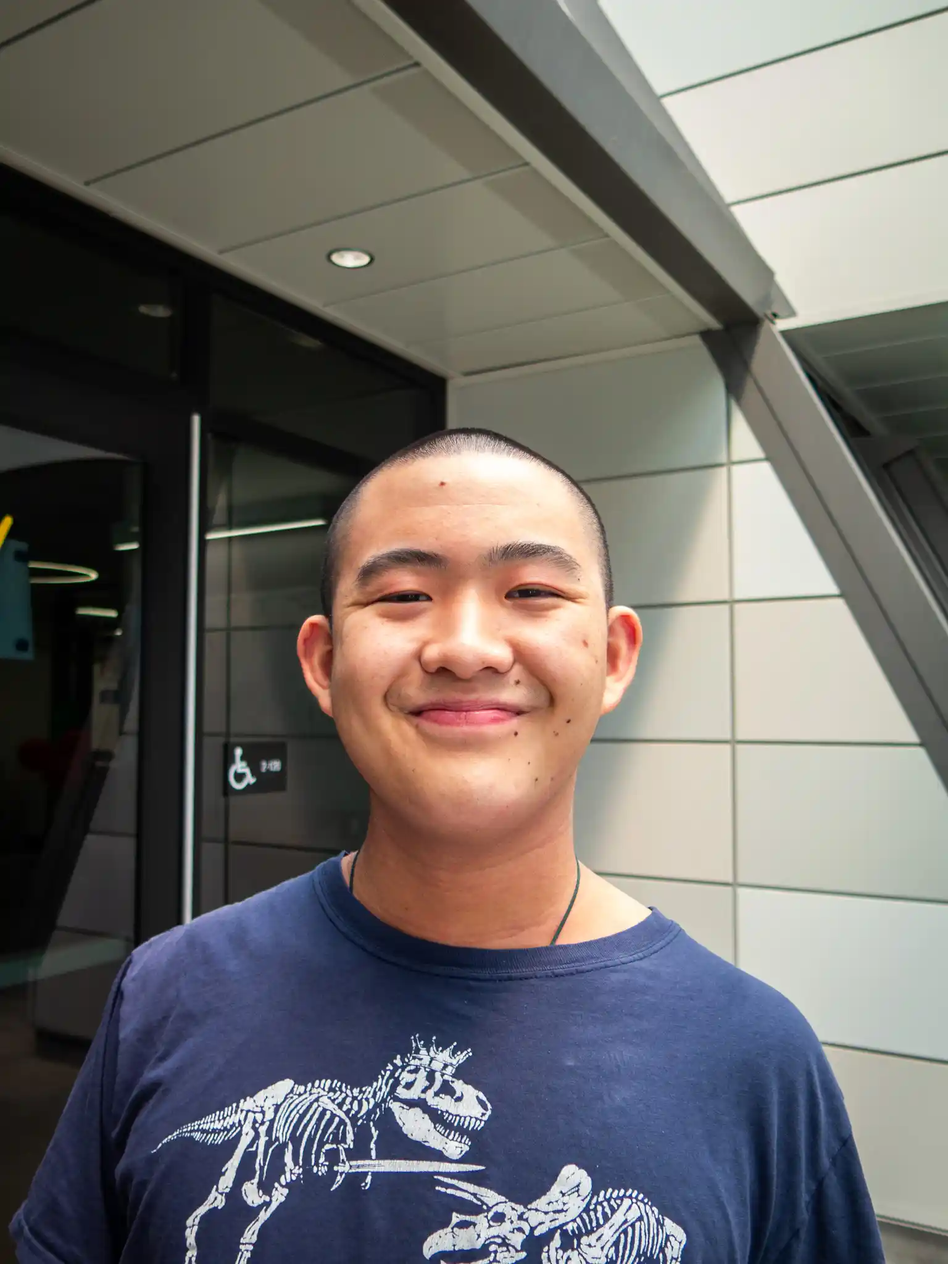
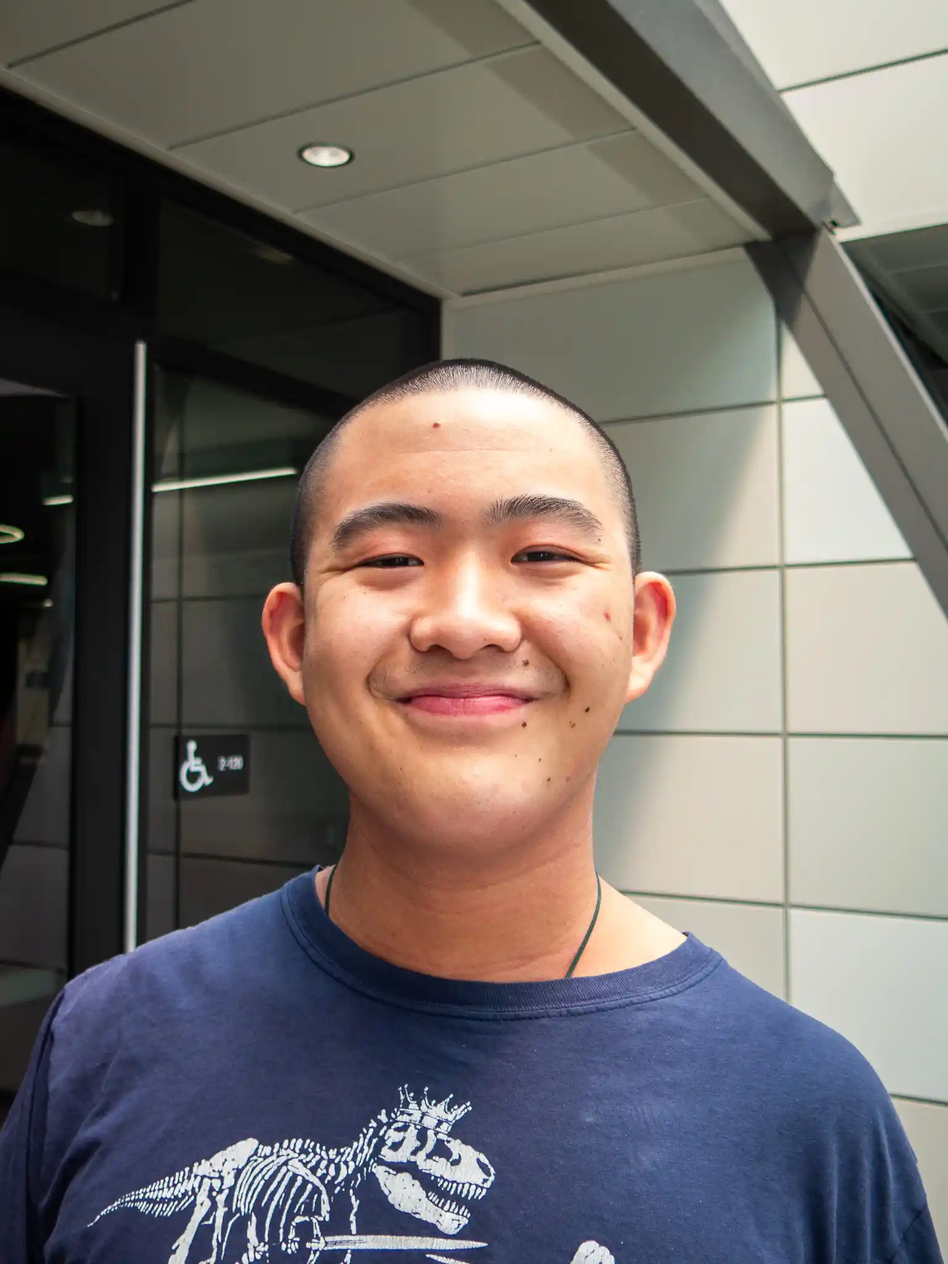
Add headshots, bios, survey data, and new favorites
- Wire 14 new headshots (Cash T, Destiny P, Elijah B, Farishta I, Hunter W, Jackson R, Josh S, Katally L, Kiyomi P, Logan W, Nathan S, Pearce W, Richard C, Seth P) + replace 11
- Fill survey data / bios for Kai Arellano, Chris Cowdell, Marie-France Demuro, Brent Limbo, Jackson Rowland, Arnav Sheth
- Update Cash Thomson to fully committed CSU Long Beach — Physical Therapy
- Add 13 new favorites across pages 7–8 (KaivJesiah, WalkEmDown, ItsSuperman, Bonitos, PantsOnFire, LiveMas, Dormir, Bruddas, Hiking, Victory, GojoNEm, Raverside, AryanLTribute)

diff --git a/index.html b/index.html
@@ -1228,17 +1228,17 @@ const people = [
   {img:'',name:'Nyala Ali',role:'_____ — _____',ig:'@_____',email:'',birthday:'',quote:'Dropped the wave runners now we run the wave',quoteBy:'goat',bio:'Nyala is committed to _____ for _____, planning to _____. Their favorite memory has been _____ and they will miss _____ the most. They are most excited for _____ in the next 10 years.'},
   {img:'',name:'Janae Alsabti',role:'_____ — _____',ig:'@_____',email:'',birthday:'',quote:'Dropped the wave runners now we run the wave',quoteBy:'goat',bio:'Janae is committed to _____ for _____, planning to _____. Their favorite memory has been _____ and they will miss _____ the most. They are most excited for _____ in the next 10 years.'},
   {img:'images/Headshots/Omar A.webp',name:'Omar Anees',role:'_____ — _____',ig:'@_____',email:'',birthday:'',quote:'Dropped the wave runners now we run the wave',quoteBy:'goat',bio:'Omar is committed to _____ for _____, planning to _____. Their favorite memory has been _____ and they will miss _____ the most. They are most excited for _____ in the next 10 years.'},
-  {img:'images/Headshots/Kai A.webp',name:'Kai Arellano',role:'_____ — _____',ig:'@_____',email:'',birthday:'',quote:'Dropped the wave runners now we run the wave',quoteBy:'goat',bio:'Kai is committed to _____ for _____, planning to _____. Their favorite memory has been _____ and they will miss _____ the most. They are most excited for _____ in the next 10 years.'},
+  {img:'images/Headshots/Kai A.webp',name:'Kai Arellano',role:'IVC — Pre-Veterinary',ig:'@kai.arellano',email:'kaia4181@mytusd.org',birthday:'June 20, 2008',quote:'Obsession beats talent every time.',quoteBy:'Adam Sandler',bio:'Kai is headed to IVC, hoping to one day work as a veterinarian and open his own clinic. His favorite memory was the Los Alamos trip with the boys. He will miss hanging out and having fun in class with his friends the most.'},
   {img:'images/Headshots/Zach A.webp',name:'Zach Avalos',role:'_____ — _____',ig:'@_____',email:'',birthday:'',quote:'Dropped the wave runners now we run the wave',quoteBy:'goat',bio:'Zach is committed to _____ for _____, planning to _____. Their favorite memory has been _____ and they will miss _____ the most. They are most excited for _____ in the next 10 years.'},
   {img:'',name:'Paloma Ayala',role:'_____ — _____',ig:'@_____',email:'',birthday:'',quote:'Dropped the wave runners now we run the wave',quoteBy:'goat',bio:'Paloma is committed to _____ for _____, planning to _____. Their favorite memory has been _____ and they will miss _____ the most. They are most excited for _____ in the next 10 years.'},
-  {img:'',name:'Elijah Bagnol',role:'_____ — _____',ig:'@_____',email:'',birthday:'',quote:'Dropped the wave runners now we run the wave',quoteBy:'goat',bio:'Elijah is committed to _____ for _____, planning to _____. Their favorite memory has been _____ and they will miss _____ the most. They are most excited for _____ in the next 10 years.'},
+  {img:'images/Headshots/Elijah B.webp',name:'Elijah Bagnol',role:'_____ — _____',ig:'@_____',email:'',birthday:'',quote:'Dropped the wave runners now we run the wave',quoteBy:'goat',bio:'Elijah is committed to _____ for _____, planning to _____. Their favorite memory has been _____ and they will miss _____ the most. They are most excited for _____ in the next 10 years.'},
   {img:'images/Headshots/Jaedon B.webp',name:'Jaedon Baluyut',role:'_____ — _____',ig:'@_____',email:'',birthday:'',quote:'Dropped the wave runners now we run the wave',quoteBy:'goat',bio:'Jaedon is committed to _____ for _____, planning to _____. Their favorite memory has been _____ and they will miss _____ the most. They are most excited for _____ in the next 10 years.'},
   {img:'images/Headshots/Andrew C.webp',name:'Andrew Camacho',role:'_____ — _____',ig:'@_____',email:'',birthday:'',quote:'Dropped the wave runners now we run the wave',quoteBy:'goat',bio:'Andrew is committed to _____ for _____, planning to _____. Their favorite memory has been _____ and they will miss _____ the most. They are most excited for _____ in the next 10 years.'},
   {img:'images/Headshots/Brandon Ca.webp',name:'Brandon Campos',role:'IVC — College',ig:'@brandoncamp.os',email:'brandonac4292@gmail.com',birthday:'September 16, 2008',quote:"Don't be a judger bro.",quoteBy:'Ken Carson',bio:"Brandon is committed to IVC, planning to transfer. His favorite memory was Kai vs. Jesiah. He will miss his friends the most and is most excited for traveling and exploring."},
   {img:'images/Headshots/Santiago C.webp',name:'Santiago Cardenas-Huerta',role:'IVC',ig:'@Santiago_cahu',email:'Santiagoc4183@mytusd.org',birthday:'April 26, 2008',quote:'God is absolutely above all, trust in Him and you\'ll end up where He wants you to be.',quoteBy:'',bio:'Santiago is committed to IVC, planning to get married, start a family, and achieve financial stability. His favorite memory was with the boys. He will miss the bonds and friendships he has built and is most excited to figure things out.'},
   {img:'images/Headshots/Carson C.webp',name:'Carson Carter',role:'_____ — _____',ig:'@_____',email:'',birthday:'',quote:'Dropped the wave runners now we run the wave',quoteBy:'goat',bio:'Carson is committed to _____ for _____, planning to _____. Their favorite memory has been _____ and they will miss _____ the most. They are most excited for _____ in the next 10 years.'},
   {img:'',name:'Rebecca Casillas',role:'_____ — _____',ig:'@_____',email:'',birthday:'',quote:'Dropped the wave runners now we run the wave',quoteBy:'goat',bio:'Rebecca is committed to _____ for _____, planning to _____. Their favorite memory has been _____ and they will miss _____ the most. They are most excited for _____ in the next 10 years.'},
-  {img:'',name:'Richard Casillas',role:'_____ — _____',ig:'@_____',email:'',birthday:'',quote:'Dropped the wave runners now we run the wave',quoteBy:'goat',bio:'Richard is committed to _____ for _____, planning to _____. Their favorite memory has been _____ and they will miss _____ the most. They are most excited for _____ in the next 10 years.'},
+  {img:'images/Headshots/Richard C.webp',name:'Richard Casillas',role:'_____ — _____',ig:'@_____',email:'',birthday:'',quote:'Dropped the wave runners now we run the wave',quoteBy:'goat',bio:'Richard is committed to _____ for _____, planning to _____. Their favorite memory has been _____ and they will miss _____ the most. They are most excited for _____ in the next 10 years.'},
   {img:'images/Headshots/Jayden C.webp',name:'Jayden Cerda',role:'IVC — Photography',ig:'@Vibewth.Jayden',email:'Cerdajay792@gmail.com',birthday:'July 27, 2008',quote:'You will never truly know the value of a moment until it becomes a memory',quoteBy:'',bio:'Jayden is committed to IVC, planning to become a photographer like Larry Chen — or a firefighter. His favorite memory was ESC. He will miss seeing his people every day and is most excited to stop waking up early for school.'},
   {img:'',name:'Baran Cerrahoglu',role:'_____ — _____',ig:'@_____',email:'',birthday:'',quote:'Dropped the wave runners now we run the wave',quoteBy:'goat',bio:'Baran is committed to _____ for _____, planning to _____. Their favorite memory has been _____ and they will miss _____ the most. They are most excited for _____ in the next 10 years.'},
   {img:'images/Headshots/Brandon Ch.webp',name:'Brandon Chang',role:'_____ — _____',ig:'@_____',email:'',birthday:'',quote:'Dropped the wave runners now we run the wave',quoteBy:'goat',bio:'Brandon is committed to _____ for _____, planning to _____. Their favorite memory has been _____ and they will miss _____ the most. They are most excited for _____ in the next 10 years.'},
@@ -1247,8 +1247,8 @@ const people = [
   {img:'',name:'Ellie Chung',role:'_____ — _____',ig:'@_____',email:'',birthday:'',quote:'Dropped the wave runners now we run the wave',quoteBy:'goat',bio:'Ellie is committed to _____ for _____, planning to _____. Their favorite memory has been _____ and they will miss _____ the most. They are most excited for _____ in the next 10 years.'},
   {img:'images/Headshots/Matt C.webp',name:'Matt Ciecek',role:'_____ — _____',ig:'@_____',email:'',birthday:'',quote:'Dropped the wave runners now we run the wave',quoteBy:'goat',bio:'Matt is committed to _____ for _____, planning to _____. Their favorite memory has been _____ and they will miss _____ the most. They are most excited for _____ in the next 10 years.'},
   {img:'',name:'Amani Clark',role:'College — University of Texas at Dallas',ig:'@dac_12.4',email:'amanic4060@mytusd.org',birthday:'October 24, 2007',quote:'Keep trying and if you can\'t come up with a solution, game until one comes to you.',quoteBy:'',bio:'Amani is headed to the University of Texas at Dallas, planning to go into business and land a solid job. His favorite memory was karaoke at lunch. He will miss his friends the most and is most excited to make brisket and kick off a new chapter in college.'},
-  {img:'images/Headshots/Christopher C.webp',name:'Chris Cowdell',role:'_____ — _____',ig:'@_____',email:'',birthday:'',quote:'Dropped the wave runners now we run the wave',quoteBy:'goat',bio:'Chris is committed to _____ for _____, planning to _____. Their favorite memory has been _____ and they will miss _____ the most. They are most excited for _____ in the next 10 years.'},
-  {img:'',name:'Marie-France Demuro',role:'_____ — _____',ig:'@_____',email:'',birthday:'',quote:'Dropped the wave runners now we run the wave',quoteBy:'goat',bio:'Marie-France is committed to _____ for _____, planning to _____. Their favorite memory has been _____ and they will miss _____ the most. They are most excited for _____ in the next 10 years.'},
+  {img:'images/Headshots/Christopher C.webp',name:'Chris Cowdell',role:'LDS Mission → IVC / UCI — Storytelling',ig:'@chrisandwich_crc',email:'christopherc3090@mytusd.org',birthday:'April 18, 2007',quote:'Being weak is nothing to be ashamed of. Staying weak is.',quoteBy:'',bio:'Chris is departing on a two-year mission for the Church of Jesus Christ of Latter-Day Saints after graduation, then plans to attend college — possibly on a track and field scholarship, or IVC then UCI, pursuing the art of storytelling. His favorite memory was educating students in the weight room through the Fitness Together club. He will miss the teachers and friends he got to know and is most excited to finally tell the stories he has been writing for over eight years.'},
+  {img:'',name:'Marie-France Demuro',role:'Community College',ig:'@deffinetly_not_marie',email:'marie-franced2621@mytusd.org',birthday:'April 14, 2008',quote:'From you, 4 years ago.',quoteBy:'',bio:'Marie-France is heading to community college, unsure of exactly what or where, but certain she will be happy doing what feels right. Her favorite memory was realizing she actually has things to contribute. She will miss the sense of familiarity she built but is ready for a new environment and new opportunities.'},
   {img:'',name:'Jianna DiLellio',role:'UCI — Communication',ig:'@jiannad8',email:'jidilellio@gmail.com',birthday:'July 26, 2008',quote:'Sometimes you don\'t know the value of a moment until it becomes a memory.',quoteBy:'',bio:'Jianna is committed to UCI, planning to find a career and build her independence. Her favorite memory was Senior Sunrise. She will miss the teachers and students the most and is most excited for gaining independence and exploring topics she\'s passionate about.'},
   {img:'',name:'Luke Dinley',role:'_____ — _____',ig:'@_____',email:'',birthday:'',quote:'Dropped the wave runners now we run the wave',quoteBy:'goat',bio:'Luke is committed to _____ for _____, planning to _____. Their favorite memory has been _____ and they will miss _____ the most. They are most excited for _____ in the next 10 years.'},
   {img:'',name:'Alethia Duggan',role:'_____ — _____',ig:'@_____',email:'',birthday:'',quote:'Dropped the wave runners now we run the wave',quoteBy:'goat',bio:'Alethia is committed to _____ for _____, planning to _____. Their favorite memory has been _____ and they will miss _____ the most. They are most excited for _____ in the next 10 years.'},
@@ -1262,15 +1262,15 @@ const people = [
   {img:'images/Headshots/Matthew I.webp',name:'Matthew Ibarra',role:'_____ — _____',ig:'@_____',email:'',birthday:'',quote:'Dropped the wave runners now we run the wave',quoteBy:'goat',bio:'Matthew is committed to _____ for _____, planning to _____. Their favorite memory has been _____ and they will miss _____ the most. They are most excited for _____ in the next 10 years.'},
   {img:'',name:'Danya Ibrahim',role:'_____ — _____',ig:'@_____',email:'',birthday:'',quote:'Dropped the wave runners now we run the wave',quoteBy:'goat',bio:'Danya is committed to _____ for _____, planning to _____. Their favorite memory has been _____ and they will miss _____ the most. They are most excited for _____ in the next 10 years.'},
   {img:'',name:'Amreen Islam',role:'UCLA — Pre-Law',ig:'@amreenn.i',email:'amreenislam75@gmail.com',birthday:'September 19, 2008',quote:'Everything happens for a reason',quoteBy:'',bio:'Amreen is committed to UCLA, planning to go to law school and become a lawyer or work with the government. Her favorite memory was walking around during class and hanging out at pep rallies. She will miss her friends the most and is most excited to meet new people.'},
-  {img:'',name:'Farishta Islam',role:'_____ — _____',ig:'@_____',email:'',birthday:'',quote:'Dropped the wave runners now we run the wave',quoteBy:'goat',bio:'Farishta is committed to _____ for _____, planning to _____. Their favorite memory has been _____ and they will miss _____ the most. They are most excited for _____ in the next 10 years.'},
+  {img:'images/Headshots/Farishta I.webp',name:'Farishta Islam',role:'_____ — _____',ig:'@_____',email:'',birthday:'',quote:'Dropped the wave runners now we run the wave',quoteBy:'goat',bio:'Farishta is committed to _____ for _____, planning to _____. Their favorite memory has been _____ and they will miss _____ the most. They are most excited for _____ in the next 10 years.'},
   {img:'',name:'Uma Joshi',role:'_____ — _____',ig:'@_____',email:'',birthday:'',quote:'Dropped the wave runners now we run the wave',quoteBy:'goat',bio:'Uma is committed to _____ for _____, planning to _____. Their favorite memory has been _____ and they will miss _____ the most. They are most excited for _____ in the next 10 years.'},
   {img:'images/Headshots/Josh K.webp',name:'Josh Kim',role:'_____ — _____',ig:'@_____',email:'',birthday:'',quote:'Dropped the wave runners now we run the wave',quoteBy:'goat',bio:'Josh is committed to _____ for _____, planning to _____. Their favorite memory has been _____ and they will miss _____ the most. They are most excited for _____ in the next 10 years.'},
   {img:'images/Headshots/Kailee K.webp',name:'Kailee Kwok',role:'IVC — Marketing / Psychology',ig:'@kaileekwok',email:'kailee.kwok@gmail.com',birthday:'December 16, 2007',quote:'Live every day with no regrets because there\'s no promise of tomorrow!',quoteBy:'',bio:'Kailee is committed to IVC, planning to transfer to a UC and pursue a career in marketing or psychology. Her favorite memory was senior year hangouts — especially walking during class and the random late-night car talks. She will miss seeing her friends every day the most and is most excited to see where life takes her.'},
   {img:'images/Headshots/Parin L.webp',name:'Parin Ladva',role:'_____ — _____',ig:'@_____',email:'',birthday:'',quote:'Dropped the wave runners now we run the wave',quoteBy:'goat',bio:'Parin is committed to _____ for _____, planning to _____. Their favorite memory has been _____ and they will miss _____ the most. They are most excited for _____ in the next 10 years.'},
   {img:'images/Headshots/Aryan L.webp',name:'Ali Aryan Lalani',role:'4 Year College — Loyola Marymount University',ig:'@Yoits_ari',email:'alil7124@mytusd.org',birthday:'12/21/2007',quote:'Live life and be academic',quoteBy:'Aryan',bio:'Ali Aryan is headed to Loyola Marymount University, planning to earn 3 degrees and a master\'s while running his own side business. His favorite memory from LMA has been football games, and he will miss his friends and all the fun times they had the most. In 10 years, he sees himself working for a company while his side business thrives.'},
   {img:'images/Headshots/Audrey L.webp',name:'Audrey Lee',role:'4 Year College — USC',ig:'@aud._lee',email:'audreyl6276@mytusd.org',birthday:'September 24, 2007',quote:'The world is more malleable than you think, and it\'s waiting for you to hammer it into shape.',quoteBy:'Bono',bio:'Audrey is headed to USC, planning to travel after graduation and live an emotionally fulfilling, socially impactful life. Her favorite memory was blasting music in the van to and from Bako with her friends and Mr. Moe. She will miss her teachers the most and is most excited to live in LA.'},
-  {img:'images/Headshots/Brent L.webp',name:'Brent Limbo',role:'_____ — _____',ig:'@_____',email:'',birthday:'',quote:'Dropped the wave runners now we run the wave',quoteBy:'goat',bio:'Brent is committed to _____ for _____, planning to _____. Their favorite memory has been _____ and they will miss _____ the most. They are most excited for _____ in the next 10 years.'},
-  {img:'',name:'Katally Lin',role:'_____ — _____',ig:'@_____',email:'',birthday:'',quote:'Dropped the wave runners now we run the wave',quoteBy:'goat',bio:'Katally is committed to _____ for _____, planning to _____. Their favorite memory has been _____ and they will miss _____ the most. They are most excited for _____ in the next 10 years.'},
+  {img:'images/Headshots/Brent L.webp',name:'Brent Limbo',role:'IVC → UCI — Engineering',ig:'@brentywho',email:'brentl2081@mytusd.org',birthday:'August 4, 2007',quote:'Don\'t lose focus.',quoteBy:'',bio:'Brent is headed to IVC with plans to transfer to UCI, aiming for a career in engineering — whether leading construction projects or doing quality maintenance work on machinery. His favorite memory was escaping point break with Sacha and Nathan. He will miss James the most.'},
+  {img:'images/Headshots/Katally L.webp',name:'Katally Lin',role:'_____ — _____',ig:'@_____',email:'',birthday:'',quote:'Dropped the wave runners now we run the wave',quoteBy:'goat',bio:'Katally is committed to _____ for _____, planning to _____. Their favorite memory has been _____ and they will miss _____ the most. They are most excited for _____ in the next 10 years.'},
   {img:'',name:'Ava Lorenzana',role:'_____ — _____',ig:'@_____',email:'',birthday:'',quote:'Dropped the wave runners now we run the wave',quoteBy:'goat',bio:'Ava is committed to _____ for _____, planning to _____. Their favorite memory has been _____ and they will miss _____ the most. They are most excited for _____ in the next 10 years.'},
   {img:'',name:'Milo Madolora',role:'Kababayan at LMA Founder',ig:'@milomadatu',email:'milomadatu@gmail.com',birthday:'April 17, 2008',quote:'Everything I\'m not made me everything I am',quoteBy:'Ye',bio:'Milo Madolora is 99% committed to Northeastern University for Business Administration, planning to find a career in marketing. His favorite memory has been making beats in Mr. Jones\'s class and he will miss walking around the school with his friends the most. Milo is most excited for new experiences in the next 10 years.'},
   {img:'images/Headshots/Murad M.webp',name:'Murad Malik',role:'_____ — _____',ig:'@_____',email:'',birthday:'',quote:'Dropped the wave runners now we run the wave',quoteBy:'goat',bio:'Murad is committed to _____ for _____, planning to _____. Their favorite memory has been _____ and they will miss _____ the most. They are most excited for _____ in the next 10 years.'},
@@ -1292,19 +1292,19 @@ const people = [
   {img:'',name:'Sacha Papadakis',role:'SDSU — Sales',ig:'@sachawhen',email:'sachap4791@mytusd.org',birthday:'June 16, 2008',quote:'Ok you the king? Burger king.',quoteBy:'',bio:'Sacha is committed to SDSU, planning to go into sales. His favorite memory was the Muslims vs Christians basketball game. He will miss Milo the most.'},
   {img:'',name:'Nima Partow',role:'_____ — _____',ig:'@_____',email:'',birthday:'',quote:'Dropped the wave runners now we run the wave',quoteBy:'goat',bio:'Nima is committed to _____ for _____, planning to _____. Their favorite memory has been _____ and they will miss _____ the most. They are most excited for _____ in the next 10 years.'},
   {img:'images/Headshots/Connor P.webp',name:'Connor Paxton',role:'_____ — _____',ig:'@_____',email:'',birthday:'',quote:'Dropped the wave runners now we run the wave',quoteBy:'goat',bio:'Connor is committed to _____ for _____, planning to _____. Their favorite memory has been _____ and they will miss _____ the most. They are most excited for _____ in the next 10 years.'},
-  {img:'',name:'Destiny Vivianna Perez',role:'University of La Verne — Elementary Education',ig:'@destinyvivianna',email:'destinyviviperez100807@gmail.com',birthday:'October 8, 2007',quote:'The only way to get what you want in this world is through hard work',quoteBy:'Tiana',bio:'Destiny is committed to University of La Verne for Elementary Education, planning to teach in her own personalized classroom while building a family of her own. Her favorite memory was the Washington DC trip freshman year. She will miss her best friend Amani the most and is most excited to finally experience what college life feels like.'},
-  {img:'',name:'Seth Pham',role:'_____ — _____',ig:'@_____',email:'',birthday:'',quote:'Dropped the wave runners now we run the wave',quoteBy:'goat',bio:'Seth is committed to _____ for _____, planning to _____. Their favorite memory has been _____ and they will miss _____ the most. They are most excited for _____ in the next 10 years.'},
-  {img:'',name:'Kiyomi Pizarro',role:'_____ — _____',ig:'@_____',email:'',birthday:'',quote:'Dropped the wave runners now we run the wave',quoteBy:'goat',bio:'Kiyomi is committed to _____ for _____, planning to _____. Their favorite memory has been _____ and they will miss _____ the most. They are most excited for _____ in the next 10 years.'},
+  {img:'images/Headshots/Destiny P.webp',name:'Destiny Vivianna Perez',role:'University of La Verne — Elementary Education',ig:'@destinyvivianna',email:'destinyviviperez100807@gmail.com',birthday:'October 8, 2007',quote:'The only way to get what you want in this world is through hard work',quoteBy:'Tiana',bio:'Destiny is committed to University of La Verne for Elementary Education, planning to teach in her own personalized classroom while building a family of her own. Her favorite memory was the Washington DC trip freshman year. She will miss her best friend Amani the most and is most excited to finally experience what college life feels like.'},
+  {img:'images/Headshots/Seth P.webp',name:'Seth Pham',role:'_____ — _____',ig:'@_____',email:'',birthday:'',quote:'Dropped the wave runners now we run the wave',quoteBy:'goat',bio:'Seth is committed to _____ for _____, planning to _____. Their favorite memory has been _____ and they will miss _____ the most. They are most excited for _____ in the next 10 years.'},
+  {img:'images/Headshots/Kiyomi P.webp',name:'Kiyomi Pizarro',role:'_____ — _____',ig:'@_____',email:'',birthday:'',quote:'Dropped the wave runners now we run the wave',quoteBy:'goat',bio:'Kiyomi is committed to _____ for _____, planning to _____. Their favorite memory has been _____ and they will miss _____ the most. They are most excited for _____ in the next 10 years.'},
   {img:'',name:'Aiza Qureshi',role:'_____ — _____',ig:'@_____',email:'',birthday:'',quote:'Dropped the wave runners now we run the wave',quoteBy:'goat',bio:'Aiza is committed to _____ for _____, planning to _____. Their favorite memory has been _____ and they will miss _____ the most. They are most excited for _____ in the next 10 years.'},
   {img:'https://media.licdn.com/dms/image/v2/D4E03AQEJB8NVvyanBg/profile-displayphoto-shrink_200_200/profile-displayphoto-shrink_200_200/0/1726208211125?e=2147483647&v=beta&t=BV1Eix_RjkDMIU3LPjpib-XFGHNnoKZH-bCoegaXGaM',name:'Artin Rastegar',role:'UC Berkeley — Business Administration',ig:'@artin_4097',email:'',birthday:'Jan 30, 2008',quote:'Dropped the wave runners now we run the wave',quoteBy:'goat',bio:'Artin Rastegar is committed to UC Berkeley for Business Administration, planning to _____. His favorite memory has been ____ and he will miss _____ the most. Artin is most excited for ____ in the next 10 years.'},
   {img:'images/Headshots/Rayan R.webp',name:'Rayan Rouhizad',role:'IVC → UC — Data Science',ig:'@nbgr4yan',email:'rayanrouhizad111@gmail.com',birthday:'June 25, 2008',quote:'Not every day is a good day, but there\'s good in every day.',quoteBy:'',bio:'Rayan is committed to IVC, planning to transfer to a UC for Data Science, then get his MBA and work in marketing or AI. His favorite memory was the multicultural fair — they last-minute left school to buy all the ingredients the day of, with seniors helping make the food. He will miss having something to do every day and ditching class to walk around campus with his friends.'},
-  {img:'',name:'Jackson Rowland',role:'_____ — _____',ig:'@_____',email:'',birthday:'',quote:'Dropped the wave runners now we run the wave',quoteBy:'goat',bio:'Jackson is committed to _____ for _____, planning to _____. Their favorite memory has been _____ and they will miss _____ the most. They are most excited for _____ in the next 10 years.'},
+  {img:'images/Headshots/Jackson R.webp',name:'Jackson Rowland',role:'Santa Ana College — Welding',ig:'',email:'jacksonr5591@mytusd.org',birthday:'December 16, 2007',quote:'There are things in this world that you\'re not meant to see, however if you are able to grasp such a thing then go for it!',quoteBy:'',bio:'Jackson is headed to Santa Ana College to study welding, with plans to weld and build a game on the side — and a few more things he\'s keeping to himself. His favorite memory was all of them. He has no regrets and is ready for whatever comes next.'},
   {img:'images/Headshots/Santino S.webp',name:'Santino Sebastian Salonga',role:'_____ — _____',ig:'@_____',email:'',birthday:'',quote:'Dropped the wave runners now we run the wave',quoteBy:'goat',bio:'Santino is committed to _____ for _____, planning to _____. Their favorite memory has been _____ and they will miss _____ the most. They are most excited for _____ in the next 10 years.'},
-  {img:'',name:'Joshua Saltzer',role:'_____ — _____',ig:'@_____',email:'',birthday:'',quote:'Dropped the wave runners now we run the wave',quoteBy:'goat',bio:'Joshua is committed to _____ for _____, planning to _____. Their favorite memory has been _____ and they will miss _____ the most. They are most excited for _____ in the next 10 years.'},
-  {img:'',name:'Nathan Saltzer',role:'_____ — _____',ig:'@_____',email:'',birthday:'',quote:'Dropped the wave runners now we run the wave',quoteBy:'goat',bio:'Nathan is committed to _____ for _____, planning to _____. Their favorite memory has been _____ and they will miss _____ the most. They are most excited for _____ in the next 10 years.'},
+  {img:'images/Headshots/Josh S.webp',name:'Joshua Saltzer',role:'_____ — _____',ig:'@_____',email:'',birthday:'',quote:'Dropped the wave runners now we run the wave',quoteBy:'goat',bio:'Joshua is committed to _____ for _____, planning to _____. Their favorite memory has been _____ and they will miss _____ the most. They are most excited for _____ in the next 10 years.'},
+  {img:'images/Headshots/Nathan S.webp',name:'Nathan Saltzer',role:'_____ — _____',ig:'@_____',email:'',birthday:'',quote:'Dropped the wave runners now we run the wave',quoteBy:'goat',bio:'Nathan is committed to _____ for _____, planning to _____. Their favorite memory has been _____ and they will miss _____ the most. They are most excited for _____ in the next 10 years.'},
   {img:'',name:'Ella Schubert',role:'_____ — _____',ig:'@_____',email:'',birthday:'',quote:'Dropped the wave runners now we run the wave',quoteBy:'goat',bio:'Ella is committed to _____ for _____, planning to _____. Their favorite memory has been _____ and they will miss _____ the most. They are most excited for _____ in the next 10 years.'},
   {img:'',name:'Iffah Sheikh',role:'_____ — _____',ig:'@_____',email:'',birthday:'',quote:'Dropped the wave runners now we run the wave',quoteBy:'goat',bio:'Iffah is committed to _____ for _____, planning to _____. Their favorite memory has been _____ and they will miss _____ the most. They are most excited for _____ in the next 10 years.'},
-  {img:'',name:'Arnav Sheth',role:'_____ — _____',ig:'@_____',email:'',birthday:'',quote:'Dropped the wave runners now we run the wave',quoteBy:'goat',bio:'Arnav is committed to _____ for _____, planning to _____. Their favorite memory has been _____ and they will miss _____ the most. They are most excited for _____ in the next 10 years.'},
+  {img:'',name:'Arnav Sheth',role:'4 Year College — Stanford',ig:'@arnav.sheth19',email:'arnavs5585@mytusd.org',birthday:'November 19, 2007',quote:'',quoteBy:'',bio:'Arnav is headed to Stanford, planning to launch a Y-Combinator startup with Artin Rastegar. His favorite memory was Music Tech class. He is most excited to dive into robotics and explore new opportunities.'},
   {img:'',name:'Nancy Silva',role:'University of San Francisco',ig:'@nancesilvaa',email:'nancysilv1231@gmail.com',birthday:'December 30, 2007',quote:'The question isn\'t what are we going to do — the question is what aren\'t we going to do?',quoteBy:'Ferris Bueller',bio:'Nancy is committed to the University of San Francisco, planning to move to SF for college. In ten years she pictures herself in San Diego — married, beachside, with some chickens. Her favorite memory was with Alice Nguyen. She will miss the weekly "Sneakyboo" hangouts and the perfect 80-degree weather most, and is most excited to become a local at a new café and order "the usual."'},
   {img:'',name:'Sam Skaron',role:'_____ — _____',ig:'@_____',email:'',birthday:'',quote:'Dropped the wave runners now we run the wave',quoteBy:'goat',bio:'Sam is committed to _____ for _____, planning to _____. Their favorite memory has been _____ and they will miss _____ the most. They are most excited for _____ in the next 10 years.'},
   {img:'',name:'Hannah Spiezer',role:'Occidental College — Psychology',ig:'@hannahspyer',email:'hannah.wontana@gmail.com',birthday:'March 17, 2008',quote:'There were ups and there were downs, but at least I didn\'t go bald. Oh shit.',quoteBy:'',bio:'Hannah is committed to Occidental College, planning to work as a psychologist in LA. Her favorite memory was graduating. She will miss Mr. Jones the most and is most excited to never touch a Surface Pro again.'},
@@ -1312,16 +1312,16 @@ const people = [
   {img:'images/Headshots/Peyton T.webp',name:'Peyton Tan',role:'_____ — _____',ig:'@_____',email:'',birthday:'',quote:'Dropped the wave runners now we run the wave',quoteBy:'goat',bio:'Peyton is committed to _____ for _____, planning to _____. Their favorite memory has been _____ and they will miss _____ the most. They are most excited for _____ in the next 10 years.'},
   {img:'images/Headshots/Justin T.webp',name:'Justin Tangker',role:'Job',ig:'',email:'justint0011@mytusd.org',birthday:'March 26, 2008',quote:'I\'ve been dead for 18 years. Today is the day I live.',quoteBy:'',bio:'Justin is heading straight into the workforce, planning to get a job and finally live his happiest chapter yet. His favorite memory from LMA was leaving. He will miss his friends but is way more excited to get out of here.'},
   {img:'',name:'Leslie Tawagon',role:'_____ — _____',ig:'@_____',email:'',birthday:'',quote:'Dropped the wave runners now we run the wave',quoteBy:'goat',bio:'Leslie is committed to _____ for _____, planning to _____. Their favorite memory has been _____ and they will miss _____ the most. They are most excited for _____ in the next 10 years.'},
-  {img:'',name:'Cash Thomson',role:'CSULB / Cal Poly Pomona — Undecided',ig:'@cash_thomson',email:'cashthomson69@gmail.com',birthday:'February 20, 2008',quote:'Denial is a river in Egypt. You don\'t wanna be in denial',quoteBy:'',bio:'Cash is committed to CSULB or Cal Poly Pomona (still deciding), planning to become a physical therapist — working with fighters and athletes or running his own practice. His favorite memory was junior year. He will miss his teachers and friends the most and is most excited to start college and a new chapter of life.'},
+  {img:'images/Headshots/Cash T.webp',name:'Cash Thomson',role:'CSU Long Beach — Physical Therapy',ig:'@cash_thomson',email:'cashthomson69@gmail.com',birthday:'February 20, 2008',quote:'Denial is a river in Egypt. You don\'t wanna be in denial',quoteBy:'',bio:'Cash is committed to CSU Long Beach, planning to become a physical therapist — working with fighters and athletes or running his own practice. His favorite memory was junior year. He will miss his teachers and friends the most and is most excited to start college and a new chapter of life.'},
   {img:'images/Headshots/Austin V.webp',name:'Austin Van',role:'_____ — _____',ig:'@_____',email:'',birthday:'',quote:'Dropped the wave runners now we run the wave',quoteBy:'goat',bio:'Austin is committed to _____ for _____, planning to _____. Their favorite memory has been _____ and they will miss _____ the most. They are most excited for _____ in the next 10 years.'},
   {img:'images/Headshots/Kiana V.webp',name:'Kiana Vuong',role:'Community College',ig:'@kianaaa.vuong',email:'kianavuong0@gmail.com',birthday:'December 27, 2007',quote:'Be the art that life is breathing. Be the soul the world is living.',quoteBy:'Lana Del Rey',bio:'Kiana is planning to travel and establish her career — in ten years, she hopes to be rich with a happy and healthy family. Her favorite memory was when school shut down due to the hangar fire. She will miss talking and seeing her friends every day, but is most excited to see everyone, including herself, succeed and achieve their dreams.'},
   {img:'images/Headshots/Preston W.webp',name:'Preston Wong',role:'_____ — _____',ig:'@_____',email:'',birthday:'',quote:'Dropped the wave runners now we run the wave',quoteBy:'goat',bio:'Preston is committed to _____ for _____, planning to _____. Their favorite memory has been _____ and they will miss _____ the most. They are most excited for _____ in the next 10 years.'},
-  {img:'',name:'Pearce Walter',role:'_____ — _____',ig:'@_____',email:'',birthday:'',quote:'Dropped the wave runners now we run the wave',quoteBy:'goat',bio:'Pearce is committed to _____ for _____, planning to _____. Their favorite memory has been _____ and they will miss _____ the most. They are most excited for _____ in the next 10 years.'},
+  {img:'images/Headshots/Pearce W.webp',name:'Pearce Walter',role:'_____ — _____',ig:'@_____',email:'',birthday:'',quote:'Dropped the wave runners now we run the wave',quoteBy:'goat',bio:'Pearce is committed to _____ for _____, planning to _____. Their favorite memory has been _____ and they will miss _____ the most. They are most excited for _____ in the next 10 years.'},
   {img:'',name:'Emily Wang',role:'_____ — _____',ig:'@_____',email:'',birthday:'',quote:'Dropped the wave runners now we run the wave',quoteBy:'goat',bio:'Emily is committed to _____ for _____, planning to _____. Their favorite memory has been _____ and they will miss _____ the most. They are most excited for _____ in the next 10 years.'},
   {img:'images/Headshots/James W.webp',name:'James Wang',role:'_____ — _____',ig:'@_____',email:'',birthday:'',quote:'Dropped the wave runners now we run the wave',quoteBy:'goat',bio:'James is committed to _____ for _____, planning to _____. Their favorite memory has been _____ and they will miss _____ the most. They are most excited for _____ in the next 10 years.'},
-  {img:'',name:'Hunter Williams',role:'University of Utah — Finance',ig:'@hunter_dub_',email:'hundubplayz@gmail.com',birthday:'November 21, 2007',quote:'Nobody Cares, Work Harder',quoteBy:'',bio:'Hunter is committed to the University of Utah, planning to go into investment banking or private equity. His favorite memory was winning first in VE Finance. He will miss his friends the most and is most excited to make new ones.'},
+  {img:'images/Headshots/Hunter W.webp',name:'Hunter Williams',role:'University of Utah — Finance',ig:'@hunter_dub_',email:'hundubplayz@gmail.com',birthday:'November 21, 2007',quote:'Nobody Cares, Work Harder',quoteBy:'',bio:'Hunter is committed to the University of Utah, planning to go into investment banking or private equity. His favorite memory was winning first in VE Finance. He will miss his friends the most and is most excited to make new ones.'},
   {img:'',name:'Eden Woods',role:'_____ — _____',ig:'@_____',email:'',birthday:'',quote:'Dropped the wave runners now we run the wave',quoteBy:'goat',bio:'Eden is committed to _____ for _____, planning to _____. Their favorite memory has been _____ and they will miss _____ the most. They are most excited for _____ in the next 10 years.'},
-  {img:'',name:'Logan Woods',role:'_____ — _____',ig:'@_____',email:'',birthday:'',quote:'Dropped the wave runners now we run the wave',quoteBy:'goat',bio:'Logan is committed to _____ for _____, planning to _____. Their favorite memory has been _____ and they will miss _____ the most. They are most excited for _____ in the next 10 years.'},
+  {img:'images/Headshots/Logan W.webp',name:'Logan Woods',role:'_____ — _____',ig:'@_____',email:'',birthday:'',quote:'Dropped the wave runners now we run the wave',quoteBy:'goat',bio:'Logan is committed to _____ for _____, planning to _____. Their favorite memory has been _____ and they will miss _____ the most. They are most excited for _____ in the next 10 years.'},
   {img:'images/Headshots/Ryan Y.webp',name:'Ryan Yahn',role:'_____ — _____',ig:'@_____',email:'',birthday:'',quote:'Dropped the wave runners now we run the wave',quoteBy:'goat',bio:'Ryan is committed to _____ for _____, planning to _____. Their favorite memory has been _____ and they will miss _____ the most. They are most excited for _____ in the next 10 years.'},
   {img:'',name:'Miriam Yassa',role:'_____ — _____',ig:'@_____',email:'',birthday:'',quote:'Dropped the wave runners now we run the wave',quoteBy:'goat',bio:'Miriam is committed to _____ for _____, planning to _____. Their favorite memory has been _____ and they will miss _____ the most. They are most excited for _____ in the next 10 years.'},
   {img:'',name:'Ruth Zhang',role:'_____ — _____',ig:'@_____',email:'',birthday:'',quote:'Dropped the wave runners now we run the wave',quoteBy:'goat',bio:'Ruth is committed to _____ for _____, planning to _____. Their favorite memory has been _____ and they will miss _____ the most. They are most excited for _____ in the next 10 years.'},
@@ -2790,14 +2790,28 @@ const FAVORITES = [
   { src: 'images/favs/LayUp.webp',                    event: '',                      caption: 'Christopher C & Evan M' },
   { src: 'images/favs/Lonzo.webp',                    event: 'Senior Assassin',       caption: 'Milo M' },
   { src: 'images/favs/Raymen.webp',                   event: '',                      caption: 'Milo M, Brent L & Daemeon M' },
-  // Page 7 — col0: WhoseHouse(1.33)+LastGame(1.18)+SkateBros(1.33)=3.84 | col1: Besties(1.50)+FunniestJoke(1.17)=2.67 | col2: Kawaii(1.40)+PoolBoy(1.33)=2.73
+  // Page 7 — col0: WhoseHouse(1.33)+LastGame(1.18)+SkateBros(1.33)+WalkEmDown(1.33)=5.17 | col1: Besties(1.50)+FunniestJoke(1.17)+KaivJesiah(1.33)+Bonitos(1.33)=5.33 | col2: Kawaii(1.40)+PoolBoy(1.33)+ItsSuperman(0.75)+PantsOnFire(1.33)=4.81
   { src: 'images/favs/WhoseHouse.webp',               event: '',                      caption: 'Milo M & Matt C' },
   { src: 'images/favs/Besties.webp',                  event: '',                      caption: 'Santino S, Parin L & Cash T' },
   { src: 'images/favs/Kawaii.webp',                   event: '',                      caption: 'Evelynn N, Carson C & Leslie T' },
   { src: 'images/favs/LastGame.webp',                 event: 'Tustin Soccer',         caption: 'Baran C, Josue G & Nico M' },
   { src: 'images/favs/FunniestJoke.webp',             event: '',                      caption: 'Jayden O & Evelynn N' },
   { src: 'images/favs/PoolBoy.webp',                  event: '',                      caption: 'Jayden C, Milo M & Baran C' },
-  { src: 'images/favs/SkateBros.webp',               event: '',                      caption: 'Sacha P, Brent L & Daemeon M' },
+  { src: 'images/favs/SkateBros.webp',                event: '',                      caption: 'Sacha P, Brent L & Daemeon M' },
+  { src: 'images/favs/KaivJesiah.webp',               event: '',                      caption: 'Kai A & Jesiah H' },
+  { src: 'images/favs/ItsSuperman.webp',              event: '',                      caption: 'Carson C, Cash T & Hunter W' },
+  { src: 'images/favs/WalkEmDown.webp',               event: 'Senior Assassin',       caption: 'Daemeon M' },
+  { src: 'images/favs/Bonitos.webp',                  event: '',                      caption: 'Cash T & Matt C' },
+  { src: 'images/favs/PantsOnFire.webp',              event: 'In School Events',      caption: 'Mason N & Connor P' },
+  // Page 8 — col0: LiveMas(1.72)+Hiking(1.33)+Raverside(1.33)=4.38 | col1: Dormir(1.33)+Victory(1.33)+AryanLTribute(1.33)=3.99 | col2: Bruddas(1.33)+GojoNEm(1.33)=2.66
+  { src: 'images/favs/LiveMas.webp',                  event: '',                      caption: 'Santino S' },
+  { src: 'images/favs/Dormir.webp',                   event: '',                      caption: 'Josue G' },
+  { src: 'images/favs/Bruddas.webp',                  event: 'Los Alamos',            caption: 'Kai A & Aryan L' },
+  { src: 'images/favs/Hiking.webp',                   event: '',                      caption: 'Baran C, Leslie T, Nathan H, Rayan R & Uma J' },
+  { src: 'images/favs/Victory.webp',                  event: '',                      caption: 'Christopher C' },
+  { src: 'images/favs/GojoNEm.webp',                  event: '',                      caption: 'Preston W & James W' },
+  { src: 'images/favs/Raverside.webp',                event: '',                      caption: 'Milo M, James W & Preston W' },
+  { src: 'images/favs/AryanLTribute.webp',            event: '',                      caption: 'Aryan L' },
 ];
 
 let favOrder = FAVORITES.map((_, i) => i);
